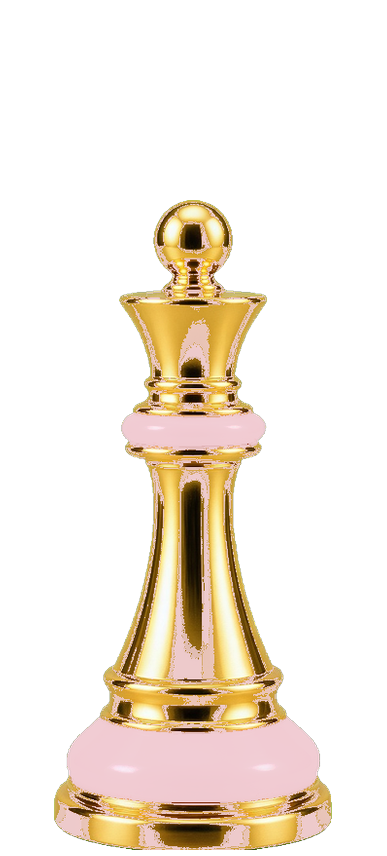
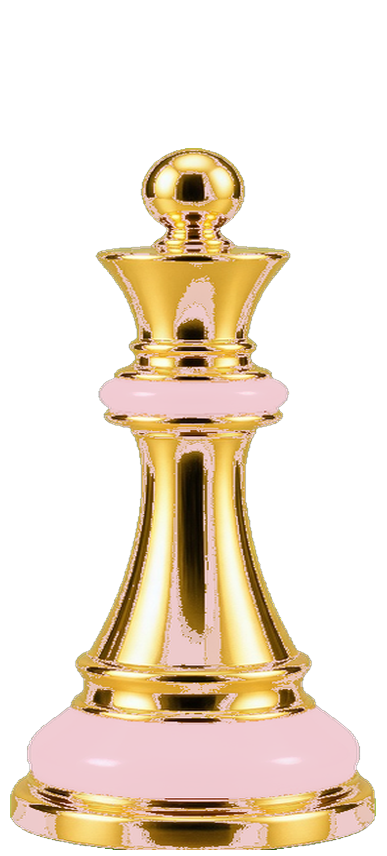
Update gold-pink chess pieces.

Changed region(s): [[0.031, 0.1519, 0.9922, 1.0]]

diff --git a/play-rooms.js b/play-rooms.js
@@ -259,7 +259,7 @@ window.bwRateGame=async function(sb, room, me, winnerSide){
     var set=setId||document.body.getAttribute("data-set")||"classic";
     var L=(letter||"P").toUpperCase();
     var s=side==="b"?"b":"w";
-    if(set==="gold") return (s==="w"?"piece-gold-w-":"piece-silver-b-")+L+".png?v=11";
+    if(set==="gold") return (s==="w"?"piece-gold-w-":"piece-silver-b-")+L+".png?v=12";
     if(set==="cobalt") return "piece-"+s+"-"+L+".png?v=14";
     return (s==="w"?"piece-parlor-w-":"piece-parlor-b-")+L+".png?v=6";
   }
